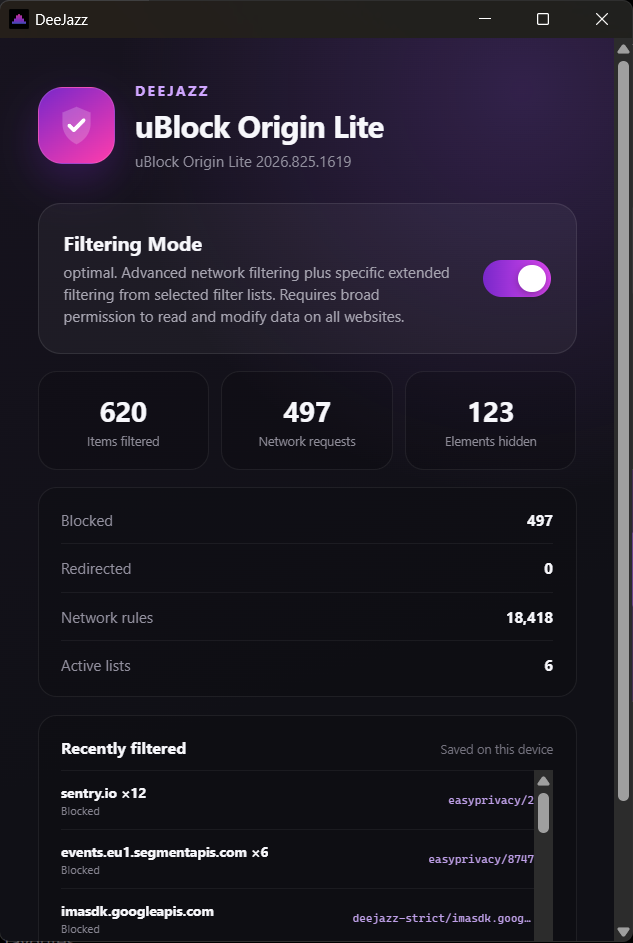
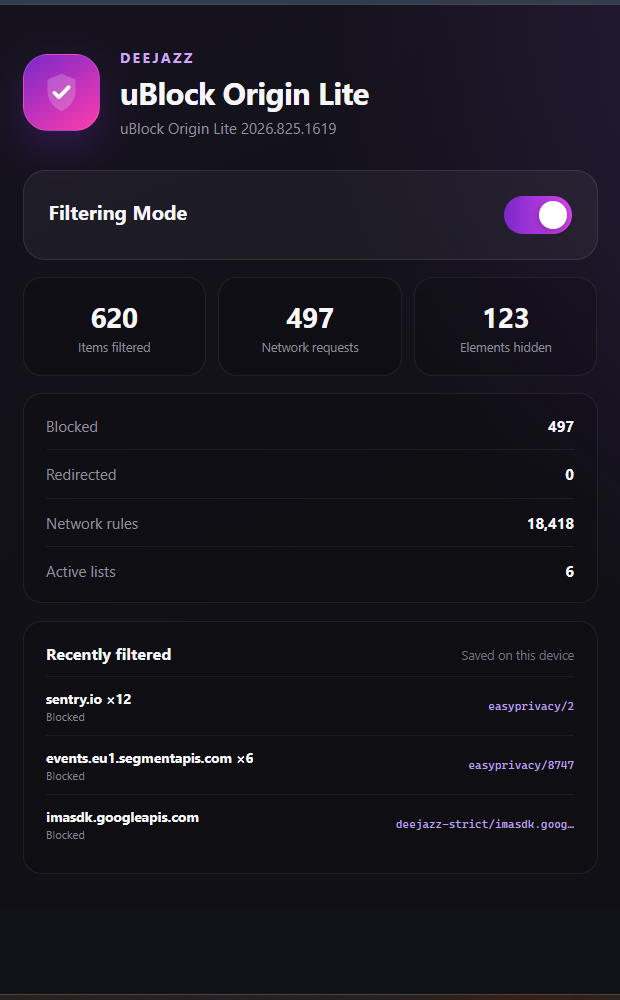
Move Linux main into scripts and translate installer to English
- Move linux/main.js to scripts/linux/main.js and update the Linux
  portable build reference
- Translate scripts/install-linux.sh and the Linux main warnings
  to English
- Unify Android and desktop release output in dist/ (drop Dist/)
- Remove the filtering-mode description from the blocker panel in
  every locale, keeping only the title and the switch
- Showcase the Android APK in the README

diff --git a/scripts/apply-application-integration.js b/scripts/apply-application-integration.js
@@ -11,7 +11,7 @@ const panelLocalesPath = path.join(projectRoot, "scripts", "ubol-panel-locales.j
 const workRoot = path.join(projectRoot, ".application-integration-work");
 const extractedApp = path.join(workRoot, "app");
 const rebuiltAsar = path.join(workRoot, "app.asar");
-const integrationRevision = "deejazz-desktop-v20";
+const integrationRevision = "deejazz-desktop-v21";
 const projectUrl = "https://ryahconstantino.github.io/deejazz/";
 const previousProjectUrl = "https://ryahconstantino.github.io/deejazz/#platform-downloads";
 const legacyBrand = ["Dee", "zer"].join("");
@@ -530,9 +530,15 @@ function localizedHistoryTarget(value) {
 function localizedHistoryType(value) {`,
     );
   }
+  // The protection card keeps only the title and the switch. The filtering
+  // mode description is removed in every locale.
   result = result.replace(
     'elements.description.textContent = state.enabled\n    ? "Ativa. Anúncios e rastreadores compatíveis são filtrados antes de chegar ao player."\n    : "Desativada. As requisições estão passando sem a filtragem do uBO Lite.";',
+    'elements.description?.remove();',
+  );
+  result = result.replace(
     'elements.description.textContent = state.enabled\n    ? `${text("filteringMode2Name", "Optimal")}. ${text("optimalFilteringModeDescription", "Network and extended filtering are active.")}`\n    : `${text("filteringMode0Name", "No filtering")}. ${text("noFilteringModeDescription", "Requests are not filtered.")}`;',
+    'elements.description?.remove();',
   );
   result = result.replace(
     'elements.version.textContent = state.extensionVersion ? `Listas uBO Lite ${state.extensionVersion}` : "Mecanismo indisponível";',
@@ -582,6 +588,9 @@ function patchPanelHtml(panelHtml) {
   ]);
   let result = panelHtml;
   for (const [search, replacement] of replacements) result = result.split(search).join(replacement);
+  // Keep only the title and the switch in the protection card. The filtering
+  // mode description is removed in every locale.
+  result = result.replace(/<p id="protection-description"[^>]*>.*?<\/p>/s, "");
   return result;
 }
 

diff --git a/scripts/linux/main.js b/scripts/linux/main.js
@@ -131,7 +131,7 @@ function setLogLevel() {
     log.transports.console.level = options.logLevel;
     log.transports.file.level = options.logLevel;
   } catch (error) {
-    console.warn("DeeJazz: não foi possível configurar o nível de log.", error.message);
+    console.warn("DeeJazz: could not configure the log level.", error.message);
   }
 }
 
@@ -260,7 +260,7 @@ function initializeMpris() {
     mprisPlayer.playbackStatus = MprisService.PLAYBACK_STATUS_STOPPED;
 
     mprisPlayer.on("error", (error) => {
-      console.warn("DeeJazz: MPRIS indisponível nesta sessão.", error.message);
+      console.warn("DeeJazz: MPRIS is unavailable in this session.", error.message);
     });
     mprisPlayer.on("play", () => sendPlayerControl("play"));
     mprisPlayer.on("pause", () => sendPlayerControl("pause"));
@@ -289,7 +289,7 @@ function initializeMpris() {
     });
     mprisPlayer.on("quit", () => app.quit());
   } catch (error) {
-    console.warn("DeeJazz: integração MPRIS não pôde ser iniciada.", error.message);
+    console.warn("DeeJazz: could not start the MPRIS integration.", error.message);
   }
 }
 

diff --git a/scripts/build-linux-portable.js b/scripts/build-linux-portable.js
@@ -10,7 +10,7 @@ const projectRoot = path.resolve(__dirname, "..");
 const sourceAsar = path.join(projectRoot, "desktop", "resources", "app.asar");
 const sourceIcon = path.join(projectRoot, "desktop", "resources", "deejazz-icon.png");
 const sourceTrayIcon = path.join(projectRoot, "desktop", "resources", "win", "systray.png");
-const sourceLinuxMain = path.join(projectRoot, "linux", "main.js");
+const sourceLinuxMain = path.join(projectRoot, "scripts", "linux", "main.js");
 const workRoot = path.join(projectRoot, ".linux-build");
 const appDir = path.join(workRoot, "app");
 const linuxResources = path.join(workRoot, "resources", "linux");

diff --git a/scripts/build-android.js b/scripts/build-android.js
@@ -8,7 +8,7 @@ const source = require("../android/source-info.json");
 
 const root = path.resolve(__dirname, "..");
 const work = path.join(root, ".android-build");
-const output = path.join(root, "Dist");
+const output = path.join(root, "dist");
 const java = process.env.JAVA_HOME ? path.join(process.env.JAVA_HOME, "bin/java") : "java";
 const sdk = process.env.ANDROID_HOME || process.env.ANDROID_SDK_ROOT;
 const buildTools = process.env.ANDROID_BUILD_TOOLS || (sdk && path.join(sdk, "build-tools/35.0.0"));

diff --git a/README.md b/README.md
@@ -22,6 +22,14 @@ The localized uBlock Origin Lite dashboard shows active filtering, persistent co
 
 ![DeeJazz uBlock Origin Lite dashboard in English](assets/images/deejazz-blocker-panel.png)
 
+## Android
+
+DeeJazz for Android ships as a signed APK with the DeeJazz name, launcher icon and brand artwork. It requires Android 6.0 or newer on ARM64.
+
+![DeeJazz for Android](assets/images/deejazz-android-home.png)
+
+The Android project is a branding-only change: the package ID (`deezer.android.app`), manifest, Smali and native libraries are preserved. See [Android build and signing instructions](android/README.md) to build `dist/deejazz-android-1.2.5.apk` from source.
+
 ## Download
 
 Download the latest Windows, Linux and Android packages from [GitHub Releases](https://github.com/ryahconstantino/deejazz/releases/latest).
@@ -73,6 +81,13 @@ Generated files are written to `dist/`:
 - `deejazz-windows-x64-1.2.5.exe`
 - `deejazz-linux-amd64-1.2.5.tar.gz`
 - `deejazz-linux-arm64-1.2.5.tar.gz`
+- `deejazz-android-1.2.5.apk`
+
+Build the signed Android APK (see [android/README.md](android/README.md) for the required SDK and signing secrets):
+
+```bash
+npm run dist:android
+```
 
 Filenames use the release version from `DEEJAZZ_VERSION` (or `.env.build` for
 local builds).
@@ -82,8 +97,8 @@ older releases with unversioned filenames.
 ## Automated releases
 
 GitHub Actions builds the Windows x64 installer, both Linux packages and the
-signed Android APK, then publishes them to a GitHub Release. Android outputs are
-written to `Dist/`; desktop outputs remain in `dist/`. Configure the Android
+signed Android APK, then publishes them to a GitHub Release. All release
+packages are written to `dist/`. Configure the Android
 signing secrets described in [android/README.md](android/README.md), then push a
 semantic-version tag to start a release:
 

diff --git a/android/README.md b/android/README.md
@@ -65,7 +65,7 @@ npm run dist:android
 The script compiles the decoded project, aligns the APK, signs it, verifies the
 signature, alignment, package ID, app label and source integrity, then writes:
 
-- `Dist/deejazz-android-1.2.5.apk`
+- `dist/deejazz-android-1.2.5.apk`
 
 The filename uses the DeeJazz release version from `DEEJAZZ_VERSION` or
 `.env.build`. GitHub Actions supplies the version from the release tag. The
